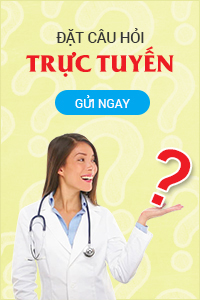
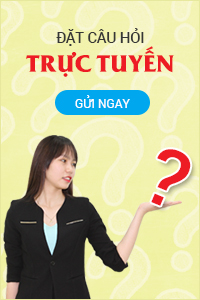
edit 20-04-2017

Changed region(s): [[0.0, 0.42, 0.93, 1.0]]

diff --git a/3-source/benhvientanhung_source/assets/styles/site.css b/3-source/benhvientanhung_source/assets/styles/site.css
@@ -470,8 +470,8 @@ section.lichhen > .container {
 }
 .lich-right {
     float:left;
-    padding-left:95px;
-    position:relative;
+    /*padding-left:95px;
+    position:relative;*/
 }
 /*.lich-right::before {
     position:absolute;
@@ -489,14 +489,23 @@ section.lichhen > .container {
 
 }*/
 .lich-right > img {
-    position:relative;
+    /*position:relative;
     bottom:-77px;
+    width:380px;*/
+    position: absolute;
+    bottom: -160px;
+    width: 380px;
+    left:90px;
 }
 .lich-right .content {
-    position:absolute;
+    /*position:absolute;
     top:150px;
     left:calc(100% - 120px);
-    width:250px;
+    width:250px;*/
+    position: absolute;
+    top: 81px;
+    left: 31%;
+    width: 250px;
 }
 .lich-right .content > span {
     font-size:18px;
@@ -775,6 +784,7 @@ section.chuyenkhoa {
     width:430px;
     float:left;
     margin-top:-44px;
+    margin-bottom:25px;
 }
 .camnhan-item .item:nth-of-type(2n) {
     float:right;
@@ -811,6 +821,13 @@ section.chuyenkhoa {
     border:2px solid #cdd9e1;
     border-top:0;
     padding:50px 30px 25px 60px;    
+    height:300px;
+}
+.camnhan-item .item .content.mCustomScrollbar {
+    padding-right:10px;
+}
+.camnhan-item .item .content.mCustomScrollbar .mCSB_inside > .mCSB_container {
+    margin-right:0;
 }
 .camnhan-item .item .content p {
     position:relative;
@@ -3138,6 +3155,10 @@ form.gsc-search-box {
     }
     .lich-left {
         margin-right:0;
+    }
+    /**/
+    .lich-right > img {
+        left:35px;
     }
 }
 

diff --git a/3-source/benhvientanhung_source/assets/js/jquery.main.js b/3-source/benhvientanhung_source/assets/js/jquery.main.js
@@ -39,7 +39,10 @@ function myfunload() {
         autoHideScrollbar: true,
         theme: "dark-thick",
     });
-
+    $('.camnhan-item .item .content').mCustomScrollbar({
+        autoHideScrollbar: true,
+        theme: "dark-thick",
+    });
 
     $('.doctors-team').owlCarousel({
         loop: true,

diff --git a/3-source/benhvientanhung_source/Default.aspx.cs b/3-source/benhvientanhung_source/Default.aspx.cs
@@ -43,7 +43,7 @@ public partial class _Default : System.Web.UI.Page
         msg += "<b>Chuyên khoa: </b>" + dropListChuyenKhoa.SelectedItem.Text + "<br /><br />";
         msg += "<b>Bác sĩ: </b>" + dropListBacSi.SelectedItem.Text + "<br /><br />";
         msg += "<b>Thời gian hẹn: </b>" + strThoiGianKham;
-        TLLib.Common.SendMail("smtp.gmail.com", 587, "webmastersendmail0401@gmail.com", "web123master", "hungtien408@gmail.com", "", "ĐẶT LỊCH HẸN BỆNH VIỆN ĐA KHOA TÂN HƯNG", msg, true);
+        TLLib.Common.SendMail("smtp.gmail.com", 587, "webmastersendmail0401@gmail.com", "web123master", "info@benhvientanhung.com", "", "ĐẶT LỊCH HẸN BỆNH VIỆN ĐA KHOA TÂN HƯNG", msg, true);
     }
     private void sendEmail2()
     {
@@ -60,7 +60,7 @@ public partial class _Default : System.Web.UI.Page
         msg += "<b>Chuyên khoa: </b>" + dropListChuyenKhoaPopup.SelectedItem.Text + "<br /><br />";
         msg += "<b>Bác sĩ: </b>" + dropListBacSiPopup.SelectedItem.Text + "<br /><br />";
         msg += "<b>Thời gian hẹn: </b>" + strThoiGianKham;
-        TLLib.Common.SendMail("smtp.gmail.com", 587, "webmastersendmail0401@gmail.com", "web123master", "hungtien408@gmail.com", "", "ĐẶT LỊCH HẸN BỆNH VIỆN ĐA KHOA TÂN HƯNG", msg, true);
+        TLLib.Common.SendMail("smtp.gmail.com", 587, "webmastersendmail0401@gmail.com", "web123master", "info@benhvientanhung.com", "", "ĐẶT LỊCH HẸN BỆNH VIỆN ĐA KHOA TÂN HƯNG", msg, true);
     }
     protected void btnDatHen_Click(object sender, EventArgs e)
     {
@@ -244,7 +244,7 @@ public partial class _Default : System.Web.UI.Page
             msg += "<b>Email: </b>" + txtEmailQuestion.Text.Trim().ToString() + "<br /><br />";
             msg += "<b>Điện thoại: </b>" + txtPhoneQuestion.Text.Trim().ToString() + "<br /><br />";
             msg += "<b>Câu hỏi: </b>" + txtQuestion.Text.Trim().ToString();
-            TLLib.Common.SendMail("smtp.gmail.com", 587, "webmastersendmail0401@gmail.com", "web123master", "hungtien408@gmail.com", "", "ĐẶT CÂU HỎI BỆNH VIỆN ĐA KHOA TÂN HƯNG", msg, true);
+            TLLib.Common.SendMail("smtp.gmail.com", 587, "webmastersendmail0401@gmail.com", "web123master", "info@benhvientanhung.com", "", "ĐẶT CÂU HỎI BỆNH VIỆN ĐA KHOA TÂN HƯNG", msg, true);
             ScriptManager.RegisterClientScriptBlock(Page, Page.GetType(), "runtime", " $(document).ready(function () {alert('Cám ơn bạn đã đặt câu hỏi. Thông báo của bạn đã được gửi đi. Chúng tôi sẽ trả lời bạn trong thời gian sớm nhất!')});", true);
             txtFullNameQuestion.Text = "";
             txtEmailQuestion.Text = "";

diff --git a/3-source/benhvientanhung_source/site-sub.master.cs b/3-source/benhvientanhung_source/site-sub.master.cs
@@ -46,7 +46,7 @@ public partial class uc_site_sub : System.Web.UI.MasterPage
             msg += "<b>Gợi ý bác sĩ giúp tôi: </b>" + "Không" + "<br /><br />";
         msg += "<b>Mô tả triệu chứng: </b>" + txtMoTa.Text.Trim().ToString() + "<br /><br />";
         msg += "<b>Thời gian khám bệnh: </b>" + strThoiGianKham;
-        TLLib.Common.SendMail("smtp.gmail.com", 587, "webmastersendmail0401@gmail.com", "web123master", "hungtien408@gmail.com", "", "ĐẶT LỊCH KHÁM BỆNH VIỆN ĐA KHOA TÂN HƯNG", msg, true);
+        TLLib.Common.SendMail("smtp.gmail.com", 587, "webmastersendmail0401@gmail.com", "web123master", "info@benhvientanhung.com", "", "ĐẶT LỊCH KHÁM BỆNH VIỆN ĐA KHOA TÂN HƯNG", msg, true);
     }
     protected void btnDatLich_Click(object sender, EventArgs e)
     {

diff --git a/3-source/benhvientanhung_source/lien-he.aspx.cs b/3-source/benhvientanhung_source/lien-he.aspx.cs
@@ -24,7 +24,7 @@ public partial class lien_he : System.Web.UI.Page
         msg += "<b>Họ và tên: </b>" + txtFullName.Text.Trim().ToString() + "<br />";
         msg += "<b>Email: </b>" + txtEmail.Text.Trim().ToString() + "<br />";
         msg += "<b>Lời nhắn: </b>" + txtNoiDung.Text.Trim().ToString();
-        Common.SendMail("smtp.gmail.com", 587, "webmastersendmail0401@gmail.com", "web123master", "cc@tranlegroup.com", "", "Contact BỆNH VIỆN ĐA KHOA TÂN HƯNG", msg, true);
+        Common.SendMail("smtp.gmail.com", 587, "webmastersendmail0401@gmail.com", "web123master", "info@benhvientanhung.com", "", "Contact BỆNH VIỆN ĐA KHOA TÂN HƯNG", msg, true);
     }
     protected void btnGui_Click(object sender, EventArgs e)
     {

diff --git a/3-source/benhvientanhung_source/en/site.master.cs b/3-source/benhvientanhung_source/en/site.master.cs
@@ -65,7 +65,7 @@ public partial class site : System.Web.UI.MasterPage
         if (txtSearch.Text != "")
         {
             Session["Keyword"] = txtSearch.Text;
-            Response.Redirect("tim-kiem.aspx?kw=" + txtSearch.Text);
+            Response.Redirect("~/tim-kiem.aspx?kw=" + txtSearch.Text);
         }
         else
         {

diff --git a/3-source/benhvientanhung_source/site.master.cs b/3-source/benhvientanhung_source/site.master.cs
@@ -61,7 +61,7 @@ public partial class site : System.Web.UI.MasterPage
         if (txtSearch.Text != "")
         {
             Session["Keyword"] = txtSearch.Text;
-            Response.Redirect("tim-kiem.aspx?kw=" + txtSearch.Text);
+            Response.Redirect("~/tim-kiem.aspx?kw=" + txtSearch.Text);
         }
         else
         {
